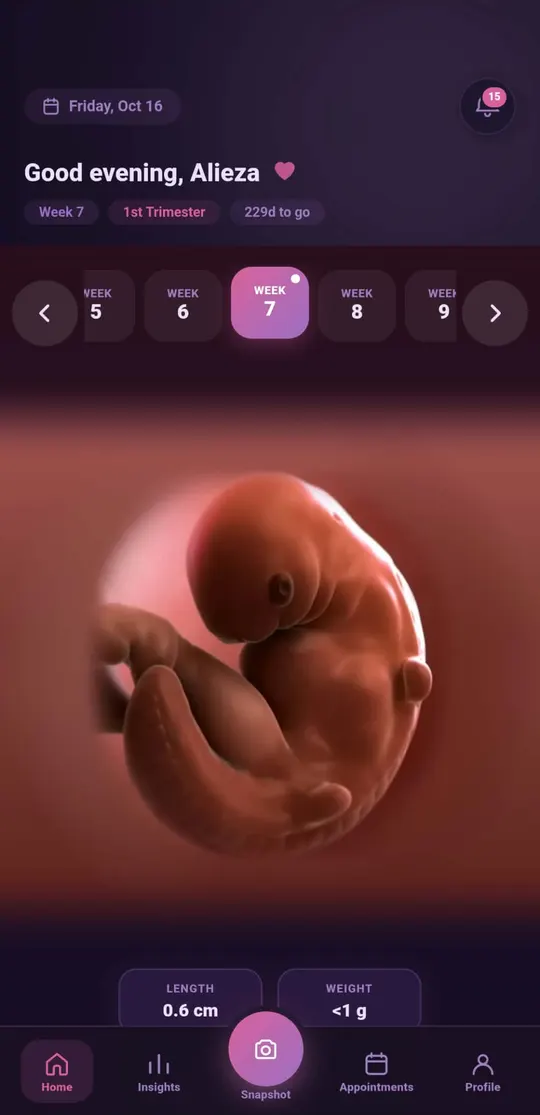
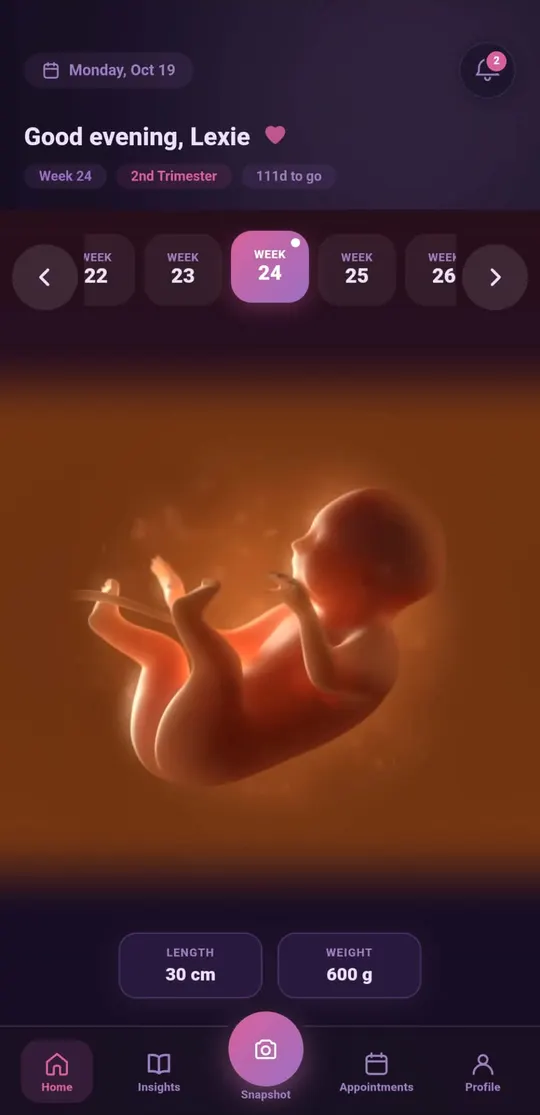
Replace landing screenshots with current app screens
Hero and carousel now show the current MomCare app (week 24 home, daily
checklist, appointments, appointment request, health tracker, photo
gallery, insights, profile). Status and navigation bars cropped, 540x1115
WebP like before; carousel grows from 5 to 8 slots. Alt text and captions
updated for the new screens.

diff --git a/src/components/screenshot-carousel.tsx b/src/components/screenshot-carousel.tsx
@@ -5,11 +5,14 @@ import { useCallback, useEffect, useRef, useState } from "react";
 import { ChevronLeft, ChevronRight } from "lucide-react";
 
 const shots = [
-  { src: "/screenshots/home-week.webp", label: "Weekly development", alt: "Home screen at week 7 with a week selector and an illustration of the baby's development." },
-  { src: "/screenshots/snapshot-health.webp", label: "Health tracker", alt: "Snapshot screen, Health Tracker tab: blood pressure, weight, fetal kicks and mood cards above a list of recent logs." },
-  { src: "/screenshots/appointments.webp", label: "Appointments", alt: "Appointments screen listing two upcoming in-person visits: an anomaly scan and a glucose tolerance test." },
-  { src: "/screenshots/insights.webp", label: "Insights", alt: "Insights screen with a featured article for this week, 'Checkups: when, how, and why', and more articles for the trimester." },
-  { src: "/screenshots/profile.webp", label: "Profile", alt: "Profile screen with an avatar, pregnancy progress bar, dark mode and account settings." },
+  { src: "/screenshots/home-week.webp", label: "Weekly development", alt: "Home screen in the MomCare app at week 24, with a week selector, an illustration of the baby and its length and weight." },
+  { src: "/screenshots/home-checklist.webp", label: "Daily checklist", alt: "Home screen in the MomCare app showing upcoming appointments, a health tracker summary and the daily checklist." },
+  { src: "/screenshots/appointments.webp", label: "Appointments", alt: "Appointments screen in the MomCare app with two upcoming visits, one expanded with doctor, location, notes and a Request cancellation button." },
+  { src: "/screenshots/appointment-request.webp", label: "Request an appointment", alt: "Request an appointment form in the MomCare app with appointment type, preferred date and time, reason, notes, icon and colour." },
+  { src: "/screenshots/snapshot-health.webp", label: "Health tracker", alt: "Health Tracker screen in the MomCare app with blood pressure, weight, fetal kicks and mood cards, recent logs and a note on who can see them." },
+  { src: "/screenshots/snapshot-gallery.webp", label: "Photo gallery", alt: "Photo gallery screen in the MomCare app with an add-photo panel and captioned ultrasound and bump photos." },
+  { src: "/screenshots/insights.webp", label: "Insights", alt: "Insights screen in the MomCare app with this week's featured article and popular articles for the trimester." },
+  { src: "/screenshots/profile.webp", label: "Profile", alt: "Profile screen in the MomCare app with an avatar, pregnancy progress bar, dark mode and account settings." },
 ];
 
 const btnClass =

diff --git a/src/app/page.tsx b/src/app/page.tsx
@@ -78,7 +78,7 @@ export default function Home() {
                 width={540}
                 height={1115}
                 priority
-                alt="MomCare home screen showing week 7 of pregnancy, a week selector and an illustration of the baby's development with length and weight."
+                alt="Home screen in the MomCare app at week 24, with a week selector, an illustration of the baby and its length and weight."
               />
             </div>
           </div>
